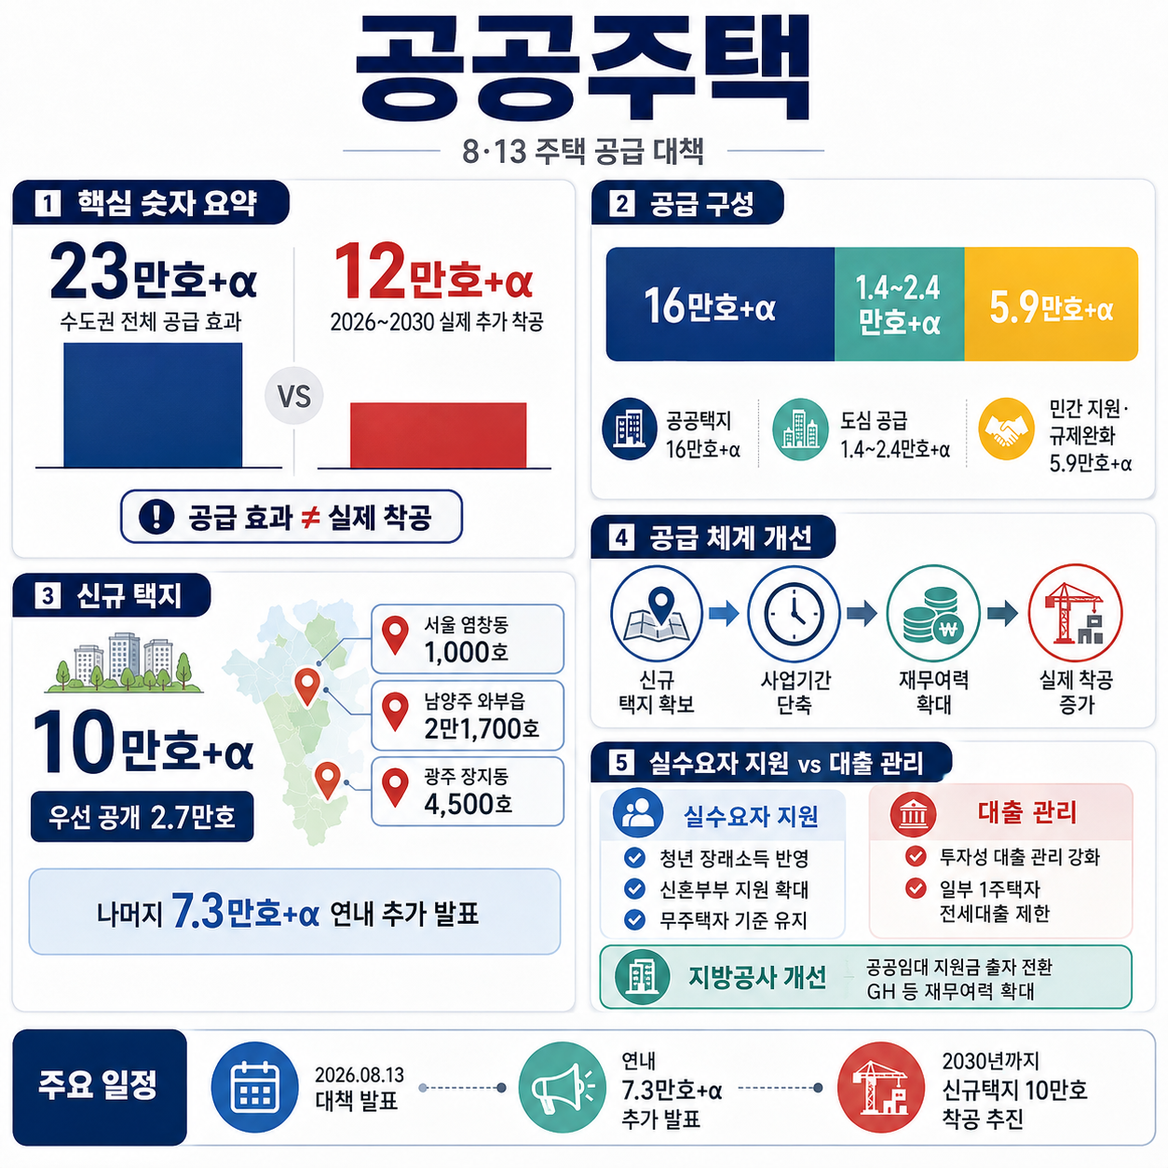
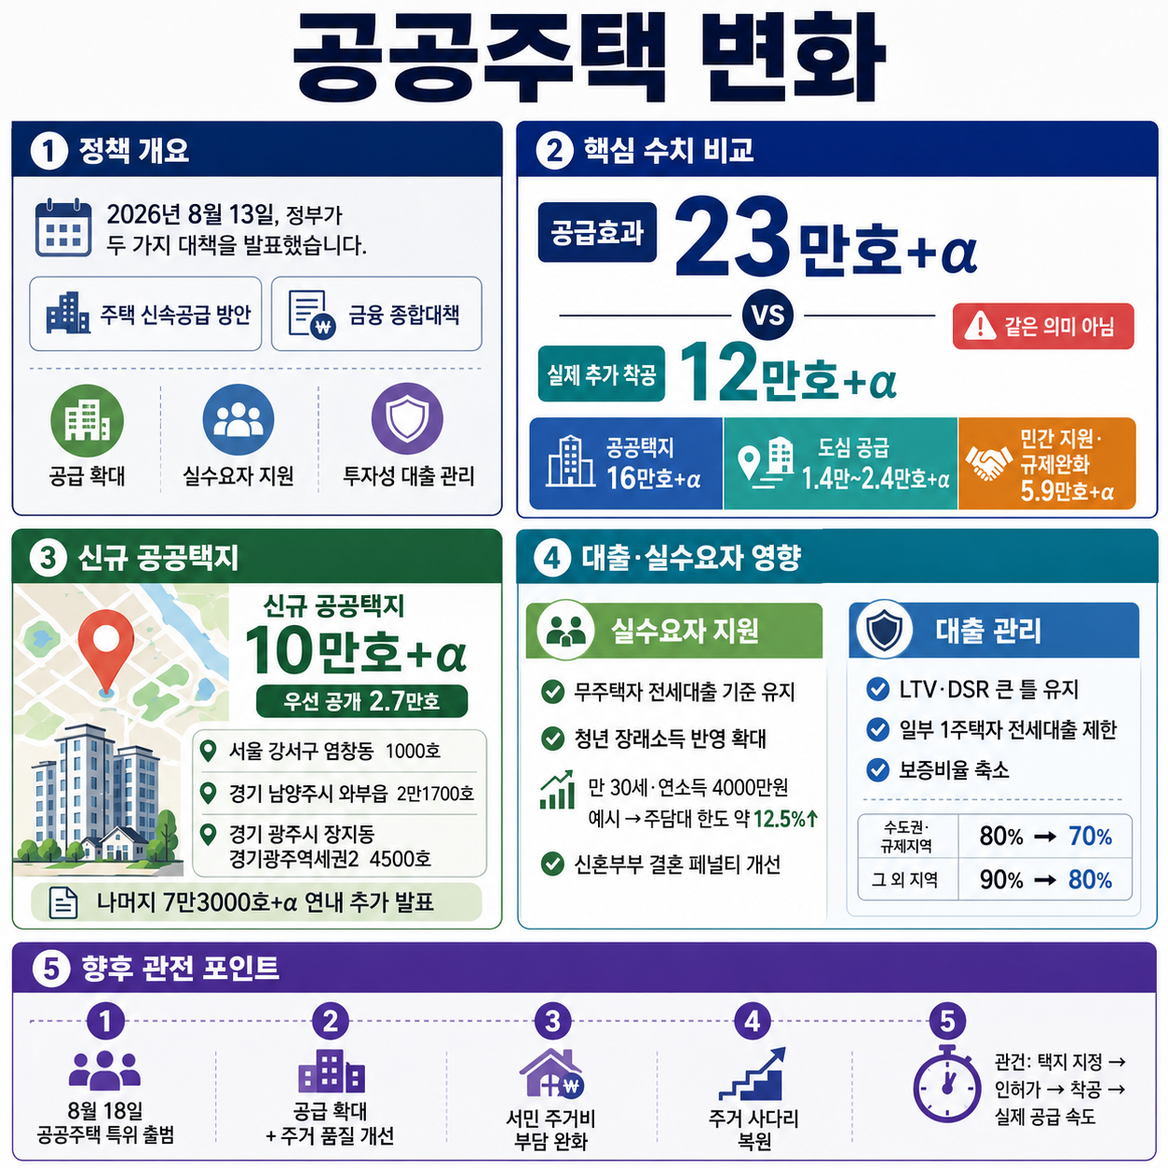
post: auto-generated for tax-yearend

diff --git a/sites/tax-yearend/content/posts/2026-08-27-공공주택-핵심-내용과-영향-정리.md b/sites/tax-yearend/content/posts/2026-08-27-공공주택-핵심-내용과-영향-정리.md
@@ -1,0 +1,235 @@
+---
+title: "공공주택 핵심 내용과 영향 정리"
+date: 2026-08-27
+description: "정책·뉴스의 배경과 맥락 정부가 2026년 8월 13일 발표한 ‘전월세 및 매매시장 안정을 위한 주택 신속공급 방안’ 과 ‘부동산 시장 안정을 위한 금융 종합대책’ 은 수도권 주택 공급을 늘리면서 실수요자의 주거 부담을 낮추고, 투자 성격이 강한 대출은 관리하는 데 초점을 맞춘 정책입니다. 국토교통부와 금융위원회가 함께 "
+categories: ["정책·뉴스"]
+tags: ["공공주택", "정책·뉴스"]
+author: "오늘의 트렌드"
+image: "/images/공공주택-핵심-내용과-영향-정리.png"
+---
+
+## 정책·뉴스의 배경과 맥락
+
+정부가 2026년 8월 13일 발표한 **‘전월세 및 매매시장 안정을 위한 주택 신속공급 방안’**과 **‘부동산 시장 안정을 위한 금융 종합대책’**은 수도권 주택 공급을 늘리면서 실수요자의 주거 부담을 낮추고, 투자 성격이 강한 대출은 관리하는 데 초점을 맞춘 정책입니다. 국토교통부와 금융위원회가 함께 발표한 이번 대책은 공공택지 공급뿐 아니라 정비사업 절차 개선, 건설·사업자금 지원, 가계대출 관리, 청년·신혼부부 지원 등을 함께 다루고 있다는 점이 특징입니다.
+
+정책에서 가장 눈에 띄는 숫자는 **수도권 23만호+α 공급 효과**입니다. 다만 이 수치는 2030년까지 23만호 이상의 주택이 모두 완공된다는 의미는 아닙니다. 제공된 자료에 따르면 정부가 이번 대책으로 예상하는 전체 공급 효과가 23만호+α이며, 이 가운데 **2026년부터 2030년까지 실제 추가 착공 물량은 12만호+α**로 제시됐습니다. 즉 정책 발표에서 언급되는 ‘공급 효과’, 실제 사업 착수에 해당하는 ‘착공’, 입주할 수 있는 ‘완공’을 구분해서 볼 필요가 있습니다.
+
+정부는 공급 확대의 핵심 수단으로 공공택지를 활용할 계획입니다. 전체 공급 효과 가운데 **공공택지에서 16만호+α**, 도심 공급에서 **1만4000~2만4000호+α**, 민간 금융·세제 지원 및 규제 완화를 통해 **5만9000호+α**의 효과를 내겠다는 구상입니다. 특히 신규 공공택지 공급 계획은 **10만호+α** 규모로 제시됐으며, 그중 2만7000호의 입지가 먼저 공개됐습니다.
+
+구체적으로는 서울 강서구 염창동 1000호, 경기 남양주시 와부읍 2만1700호, 경기 광주시 장지동 경기광주역세권2 4500호가 우선 공개 대상에 포함됐습니다. 나머지 **7만3000호+α 규모의 신규 공공택지 후보지는 연내 추가 발표할 예정**이라고 제시됐습니다. 따라서 향후 공공주택 정책을 볼 때는 이미 공개된 지역뿐 아니라 추가 후보지가 어디에 지정되는지도 중요한 변수가 될 전망입니다.
+
+공공주택을 둘러싼 논의는 단순히 공급 물량을 늘리는 데서 끝나지 않습니다. 2026년 8월 18일에는 대통령 직속 국민통합위원회가 **‘주거안정을 위한 공공주택 특별위원회’**를 출범시켰습니다. 특별위원회는 공공주택 공급 확대뿐 아니라 **주거 품질 개선, 서민 주거비 부담 완화, 주거 사다리 복원**과 관련된 정책과제를 발굴하는 역할을 맡게 됩니다. 공급량뿐 아니라 실제 거주 품질과 주거 이동 가능성을 함께 살펴보려는 흐름으로 볼 수 있습니다.
+
+또한 제공된 자료에서는 정부와 정치권이 공급 계획의 발표 자체보다 **정책을 국민이 체감할 수 있는 속도로 집행하는 것이 중요하다**고 강조한 내용도 확인됩니다. 즉 이번 공공주택 정책의 성패는 발표된 물량의 규모뿐 아니라 택지 지정, 인허가, 착공, 실제 공급까지 얼마나 차질 없이 이어지는지에 달려 있다고 볼 수 있습니다.
+
+## 주요 내용 정리 - 핵심 포인트 5가지
+
+### 1. 수도권 23만호+α 공급 효과 추진
+
+정부는 이번 대책을 통해 수도권에서 총 **23만호+α 규모의 공급 효과**를 내겠다는 계획을 제시했습니다.
+
+| 구분                  |    정부가 제시한 공급 효과 |
+| ------------------- | ---------------: |
+| 공공택지                |           16만호+α |
+| 도심 공급               | 1만4000~2만4000호+α |
+| 민간 금융·세제 지원 및 규제 완화 |        5만9000호+α |
+| 전체 공급 효과            |           23만호+α |
+| 2026~2030년 실제 추가 착공 |           12만호+α |
+
+중요한 점은 23만호+α가 모두 2030년까지 완공되는 물량은 아니라는 것입니다. 실제 추가 착공 목표와 전체적인 공급 효과는 다른 개념이므로 정책을 해석할 때 구분해야 합니다.
+
+### 2. 신규 공공택지 10만호+α 확보
+
+신규 공공택지는 **10만호+α** 규모로 계획됐습니다. 이 가운데 먼저 공개된 물량은 2만7000호입니다.
+
+| 지역                  |     계획 물량 |
+| ------------------- | --------: |
+| 서울 강서구 염창동          |     1000호 |
+| 경기 남양주시 와부읍         |   2만1700호 |
+| 경기 광주시 장지동 경기광주역세권2 |     4500호 |
+| 우선 공개 합계            |   2만7000호 |
+| 향후 추가 발표            | 7만3000호+α |
+
+추가 공공택지 후보지는 연내 발표 예정으로 제시됐습니다.
+
+### 3. 재개발·재건축 등 정비사업 절차 완화
+
+정부는 신규 택지만 조성하는 것이 아니라 기존 도심의 재개발·재건축 속도를 높이는 방안도 포함했습니다.
+
+재개발 조합 설립 동의율은 기존 **75%에서 70%**로 낮아지고, 공공 재개발·재건축의 사업시행자 지정 동의율도 **67%에서 60%**로 완화됩니다.
+
+또 시공사 입찰에 한 곳만 참여하는 경우 재입찰 절차를 간소화하고, 공사비와 인허가 등을 둘러싼 분쟁을 신속하게 조정하기 위한 전문 중재기구 신설도 검토합니다.
+
+정비사업에서 조합 설립과 사업시행자 지정에 필요한 동의 기준이 낮아질 경우 사업 초기 단계에서 발생하는 지연을 줄일 가능성이 있습니다. 반면 사업 추진 과정에서 주민 간 이해관계를 충분히 조정하는 절차 역시 중요해질 수 있습니다.
+
+### 4. 투자 성격 대출 관리와 실수요자 지원 병행
+
+정부는 전체적인 LTV(주택담보인정비율)와 DSR(총부채원리금상환비율) 규제의 큰 틀은 유지하면서 투자 성격이 강하다고 판단되는 대출 관리를 강화합니다.
+
+수도권·규제지역 아파트를 보유하면서 해당 주택을 임대하고 본인과 배우자가 한 번도 실거주하지 않은 1주택자는 **내년부터 전세대출 신규 취급과 만기 연장이 원칙적으로 제한**될 예정입니다.
+
+또한 1주택자의 전세대출 보증비율은 수도권·규제지역의 경우 **80%에서 70%**, 그 외 지역에서는 **90%에서 80%**로 낮아집니다. 반면 무주택자에게는 현행 기준이 유지됩니다.
+
+실거주 목적의 재건축·재개발 이주비와 신축 아파트 중도금·잔금대출은 금융회사의 가계대출 총량관리 목표와 별도로 관리합니다.
+
+### 5. 청년·신혼부부 등 실수요자 지원 확대
+
+청년 차주에게는 현재 소득만이 아니라 향후 소득 증가 가능성을 반영하는 **장래소득 적용**을 보다 적극적으로 활용하도록 했습니다.
+
+금융회사는 청년 차주에게 장래소득 적용 가능 여부와 적용할 경우 받을 수 있는 대출 한도를 의무적으로 안내해야 합니다.
+
+정부가 제시한 예시에서는 **연소득 4000만원인 만 30세 차주**가 장래소득을 반영할 경우 30년 만기 주택담보대출 한도가 약 **12.5% 증가할 수 있는 것**으로 설명됐습니다.
+
+혼인신고 이후 정책대출이나 공공주택 이용 과정에서 불리해진다는 이른바 **‘결혼 페널티’**를 개선하는 방향도 포함됐습니다. 제공된 자료에서는 보금자리론·디딤돌·버팀목대출 신청 과정에서 부부의 소득기준을 적용하는 방식이 개선되는 내용이 소개됐습니다.
+
+## 정책 흐름을 한눈에 보는 타임라인
+
+| 시점           | 주요 내용                                       |
+| ------------ | ------------------------------------------- |
+| 2026년 8월 12일 | 주택시장 안정화와 공급 확대 필요성, 정책 집행 속도 등에 관한 논의      |
+| 2026년 8월 13일 | ‘전월세 및 매매시장 안정을 위한 주택 신속공급 방안’ 및 금융 종합대책 발표 |
+| 2026년 8월 17일 | 대책의 공공택지·정비사업·대출·실수요자 지원 내용 등이 구체적으로 소개     |
+| 2026년 8월 18일 | 국민통합위원회 ‘주거안정을 위한 공공주택 특별위원회’ 출범            |
+| 연내           | 나머지 신규 공공택지 7만3000호+α 후보지 추가 발표 예정          |
+| 2026~2030년   | 대책에 따른 실제 추가 착공 12만호+α 추진                   |
+
+## 국민에게 미치는 영향
+
+### 긍정적으로 볼 수 있는 측면
+
+첫째, 수도권 주택 공급 기반이 확대될 가능성이 있습니다. 신규 공공택지 10만호+α와 기존 공공택지를 포함한 16만호+α 규모의 공급 효과가 계획대로 이어진다면 중장기적으로 수도권 주택 공급 부족에 대응할 수 있는 기반이 마련될 수 있습니다.
+
+둘째, 정비사업의 속도가 빨라질 가능성이 있습니다. 조합 설립과 사업시행자 지정 동의율을 낮추고 시공사 선정 절차를 간소화하면 사업 초기 단계에서 발생하던 지연 요인이 일부 줄어들 수 있습니다.
+
+셋째, 청년과 무주택 실수요자에 대한 지원이 상대적으로 강화됩니다. 무주택자의 전세대출 기준은 현행대로 유지하면서 청년에게는 장래소득을 반영할 수 있도록 해 대출 가능 범위를 넓힐 수 있도록 했습니다.
+
+넷째, 신혼부부가 혼인신고 이후 정책대출이나 공공주택 제도에서 불리해지는 문제를 완화하려는 방향이 제시됐다는 점도 실수요자에게는 의미가 있습니다.
+
+다섯째, 국민통합위원회 공공주택 특별위원회가 공급량뿐 아니라 주거 품질과 주거비 부담, 주거 사다리 문제까지 함께 검토한다는 점에서 공공주택 정책의 논의 범위가 넓어질 가능성이 있습니다.
+
+### 우려하거나 지켜봐야 할 측면
+
+첫째, 공급 효과와 실제 입주 가능 시점 사이에는 차이가 있습니다. 정부가 제시한 23만호+α는 전체 공급 효과이며 2026~2030년 실제 추가 착공 물량은 12만호+α입니다. 따라서 공급 발표 직후 시장에서 체감할 수 있는 주택 물량이 단기간에 크게 증가한다고 단정하기는 어렵습니다.
+
+둘째, 신규 공공택지가 지정되더라도 실제 주택 공급까지는 택지 조성, 인허가, 착공 등의 과정을 거쳐야 합니다. 정책에서 강조한 ‘속도’가 실제 사업 단계에서 구현되는지가 중요합니다.
+
+셋째, 정비사업 동의율 완화는 사업 진행 속도를 높일 수 있지만, 사업에 동의하지 않는 주민과 조합 사이의 이해관계 조정 문제는 계속 발생할 수 있습니다. 정부가 공사비·인허가 분쟁을 처리하기 위한 전문 중재기구 신설을 검토하는 것도 이런 문제와 관련된 것으로 볼 수 있습니다.
+
+넷째, 일부 1주택자의 전세대출 제한과 보증비율 축소는 가계대출 관리 측면에서는 의미가 있지만 해당 조건에 해당하는 차주에게는 자금 조달 부담이 커질 수 있습니다.
+
+다섯째, 향후 공개될 7만3000호+α 규모의 신규 공공택지가 어느 지역에 배치되는지에 따라 수도권 지역별 체감 효과가 달라질 수 있습니다.
+
+
+<figure class="post-mid-image">
+  <img src="/images/공공주택-핵심-내용과-영향-정리-mid.png" alt="공공주택 핵심 내용과 영향 정리 인포그래픽" loading="lazy">
+</figure>
+
+## 전문가 의견 및 분석
+
+제공된 자료에는 개별 부동산 전문가의 구체적인 평가나 전망이 별도로 제시돼 있지 않습니다. 따라서 특정 전문가의 의견을 임의로 만들어 해석하기보다는, 자료에 나타난 정책 방향과 논점을 중심으로 살펴볼 필요가 있습니다.
+
+이번 대책의 가장 큰 특징은 **‘공급 확대’와 ‘대출 관리’를 동시에 추진한다는 점**입니다. 건설·사업자금 지원과 공공택지 공급, 정비사업 규제 완화 등을 통해 주택 공급 측면에서는 정책 지원을 확대하면서, 가계대출에서는 기존 관리 기조를 유지하고 일부 투자 성격 대출을 더욱 제한하고 있습니다.
+
+정책 구조만 놓고 보면 주택시장 불안에 대응하기 위해 모든 대출을 일괄적으로 확대하거나 축소하는 방식보다는 **실거주와 투자 목적을 구분하려는 접근**으로 볼 수 있습니다. 무주택자 전세대출 기준은 유지하고 청년 장래소득 반영을 확대하는 반면, 일정 조건에 해당하는 1주택자의 전세대출은 제한하는 방식이 대표적인 사례입니다.
+
+공급 정책에서는 무엇보다 실제 집행 속도가 중요합니다. 정부가 제시한 공급 효과가 실제 주거시장에 영향을 미치기 위해서는 택지 발표에서 끝나는 것이 아니라 사업 추진과 착공으로 연결돼야 합니다. 제공된 자료에서도 정책 발표 이후 국민이 체감할 수 있도록 신속한 집행이 중요하다는 취지의 언급이 나타납니다.
+
+또한 공공주택 정책의 평가 기준도 단순히 ‘몇 호를 공급하는가’에서 더 넓어질 가능성이 있습니다. 국민통합위원회가 공공주택 특별위원회를 출범시키면서 공급 확대와 함께 **주거 품질 개선, 주거비 부담 완화, 주거 사다리 복원**을 정책과제로 다루겠다고 밝힌 점이 이를 보여줍니다.
+
+## 향후 전망과 일정
+
+향후 가장 먼저 확인해야 할 사안은 **신규 공공택지 추가 발표**입니다. 정부는 신규 공공택지 10만호+α 가운데 2만7000호의 입지를 우선 공개했으며 나머지 7만3000호+α는 연내 발표할 계획입니다.
+
+공공택지 발표 이후에는 실제 사업이 어느 정도 속도로 진행되는지 확인해야 합니다. 2026년부터 2030년까지 정부가 제시한 실제 추가 착공 목표는 12만호+α입니다. 따라서 향후에는 공급 효과 수치보다 실제 착공 실적을 함께 살펴보는 것이 중요합니다.
+
+정비사업과 관련해서는 조합 설립 동의율 완화, 사업시행자 지정 기준 완화, 시공사 입찰 절차 간소화 등이 실제 사업기간 단축으로 이어지는지가 관건입니다.
+
+금융 분야에서는 일부 1주택자의 전세대출 제한이 **내년부터 적용될 예정**이므로 적용 대상에 해당하는 가구는 본인의 주택 보유 및 실거주 조건을 확인할 필요가 있습니다.
+
+공공주택 정책 전반에서는 8월 18일 출범한 공공주택 특별위원회가 앞으로 어떤 구체적인 정책과제를 제시하는지도 지켜볼 부분입니다.
+
+## 관련 정책 비교
+
+| 정책 분야                   | 기존 또는 일반적 기준        | 이번 대책의 변화              | 주요 대상·의미         |
+| ----------------------- | ------------------- | ---------------------- | ---------------- |
+| 신규 공공택지                 | -                   | 10만호+α 추진              | 수도권 공급 확대        |
+| 재개발 조합설립 동의율            | 75%                 | 70%                    | 정비사업 절차 완화       |
+| 공공 재개발·재건축 사업시행자 지정 동의율 | 67%                 | 60%                    | 사업 추진 속도 개선      |
+| 수도권·규제지역 1주택자 전세대출 보증비율 | 80%                 | 70%                    | 일부 1주택자 대출 관리 강화 |
+| 기타 지역 1주택자 전세대출 보증비율    | 90%                 | 80%                    | 일부 1주택자 대출 관리 강화 |
+| 무주택자 전세대출               | 현행 기준               | 현행 기준 유지               | 실수요자 보호          |
+| 청년 대출 심사                | 현재 소득 중심            | 장래소득 적극 반영             | 청년 대출 한도 지원      |
+| 재건축·재개발 이주비 등           | 가계대출 총량관리 대상과 함께 관리 | 별도 관리                  | 실거주·사업 추진 지원     |
+| 공공주택 정책 논의              | 공급 중심 논의            | 공급·품질·주거비·주거 사다리 함께 검토 | 정책 범위 확대         |
+
+## 시민이 알아야 할 점 5가지
+
+### 1. ‘23만호+α’가 모두 5년 안에 완공되는 것은 아닙니다
+
+정부가 제시한 23만호+α는 이번 대책으로 기대하는 전체적인 공급 효과입니다. 2026~2030년 실제 추가 착공 목표는 12만호+α이므로 두 수치를 혼동하지 않는 것이 중요합니다.
+
+### 2. 신규 공공택지 발표는 아직 끝나지 않았습니다
+
+현재 공개된 신규 공공택지는 2만7000호 규모이며 전체 계획은 10만호+α입니다. 나머지 7만3000호+α의 후보지는 연내 추가 발표될 예정입니다.
+
+### 3. 무주택자와 일부 1주택자의 대출 기준이 다릅니다
+
+무주택자의 전세대출 기준은 현행대로 유지됩니다. 반면 일정 조건에 해당하는 1주택자는 전세대출 신규 취급이나 만기 연장이 제한될 수 있고 보증비율도 낮아집니다.
+
+따라서 단순히 ‘전세대출 규제가 강화됐다’고 보기보다는 본인의 주택 보유 여부와 실거주 여부를 함께 확인해야 합니다.
+
+### 4. 청년이라면 장래소득 반영 여부를 확인할 필요가 있습니다
+
+금융회사는 청년 차주에게 장래소득 적용 가능 여부와 적용 시 대출 가능 한도를 안내해야 합니다. 현재 소득만으로 대출 한도를 판단하기보다 장래소득 적용 대상인지 확인해볼 필요가 있습니다.
+
+### 5. 공급량과 함께 실제 착공 여부를 살펴봐야 합니다
+
+주택 정책에서 발표 물량과 실제 공급은 동일하지 않습니다. 신규 택지 지정 이후 사업 추진, 인허가, 착공 등의 과정이 이어져야 하기 때문에 앞으로 발표되는 실제 착공 실적을 함께 확인하는 것이 중요합니다.
+
+## 자주 묻는 질문(FAQ)
+
+**Q: 정부가 발표한 수도권 23만호+α는 2030년까지 모두 입주할 수 있다는 뜻인가요?**
+
+A: 아닙니다. 23만호+α는 이번 정책을 통해 정부가 예상한 전체적인 공급 효과입니다. 제공된 자료에 따르면 2026년부터 2030년까지 실제 추가 착공 물량은 12만호+α입니다. 따라서 23만호 전체가 2030년까지 완공되거나 입주한다는 의미로 해석해서는 안 됩니다.
+
+**Q: 신규 공공택지는 어디에 들어서나요?**
+
+A: 신규 공공택지는 총 10만호+α 규모로 추진되며 현재 2만7000호의 입지가 우선 공개됐습니다. 서울 강서구 염창동 1000호, 경기 남양주시 와부읍 2만1700호, 경기 광주시 장지동 경기광주역세권2 4500호입니다. 나머지 7만3000호+α의 후보지는 연내 추가 발표될 예정입니다.
+
+**Q: 이번 대책으로 무주택자의 전세대출도 줄어드나요?**
+
+A: 제공된 자료에 따르면 무주택자의 전세대출 기준은 현행대로 유지됩니다. 전세대출 보증비율 축소와 일부 전세대출 제한은 일정 조건에 해당하는 1주택자를 중심으로 적용됩니다.
+
+**Q: 청년은 주택담보대출을 더 받을 수 있게 되는 건가요?**
+
+A: 청년 차주에게 장래소득을 적극적으로 반영하도록 하는 제도가 강화됩니다. 금융회사는 청년에게 장래소득 적용 가능 여부와 적용 시 대출 한도를 안내해야 합니다. 정부 예시에서는 연소득 4000만원인 만 30세 차주가 장래소득을 반영할 경우 30년 만기 주택담보대출 한도가 약 12.5% 증가할 수 있는 것으로 제시됐습니다. 다만 실제 적용 여부와 한도는 개인별 조건에 따라 달라질 수 있으므로 금융회사 확인이 필요합니다.
+
+**Q: 공공주택 정책은 앞으로 공급량만 늘리는 방향으로 추진되나요?**
+
+A: 공급 확대가 핵심 과제이지만 공급량만을 다루는 것은 아닙니다. 2026년 8월 18일 출범한 국민통합위원회의 ‘주거안정을 위한 공공주택 특별위원회’는 공공주택 공급 확대와 함께 주거 품질 개선, 서민 주거비 부담 완화, 주거 사다리 복원 등의 정책과제를 발굴할 계획입니다.
+
+## 정리
+
+이번 공공주택 정책의 핵심은 **수도권 공급 확대, 정비사업 속도 개선, 투자 성격 대출 관리, 청년·무주택·신혼부부 등 실수요자 지원**을 동시에 추진하는 데 있습니다.
+
+수도권 23만호+α라는 공급 효과가 가장 크게 주목받고 있지만 실제 정책 효과를 판단하기 위해서는 숫자 자체보다 그 안의 구조를 살펴봐야 합니다. 공공택지와 도심 공급, 민간 지원을 통해 기대하는 전체 공급 효과와 2026~2030년 실제 추가 착공 목표는 서로 다른 수치입니다.
+
+또한 공공주택 정책은 단순한 신규 주택 건설 정책을 넘어 정비사업 절차, 금융 규제, 청년 대출, 신혼부부 지원, 주거 품질과 주거비 부담 문제까지 함께 다루는 방향으로 확대되고 있습니다.
+
+향후에는 연내 추가 발표될 **7만3000호+α 규모의 신규 공공택지 위치**, 2026~2030년 실제 착공 실적, 정비사업 제도 개선의 효과, 일부 전세대출 규제의 시행 과정, 공공주택 특별위원회가 마련할 정책과제 등을 차례로 확인할 필요가 있습니다.
+
+결국 이번 대책이 실제 주거 안정으로 이어지는지는 계획된 공급 물량이 얼마나 빠르고 안정적으로 사업화되는지, 그리고 공급 확대와 금융 관리 사이에서 실수요자의 주거 접근성을 얼마나 유지할 수 있는지가 중요한 판단 기준이 될 것으로 보입니다.
+
+## 출처
+
+* https://news.tf.co.kr/read/economy/2354486.htm
+* https://www.joseilbo.com/news/htmls/2026/08/20260812573730.html
+* https://www.joseilbo.com/news/htmls/2026/08/20260813573778.html
+* https://www.sisaon.co.kr/news/articleView.html?idxno=203605
+
+---
+
+<figure class="post-comic">
+  <figcaption>오늘의 시사 4컷</figcaption>
+  <img src="/images/공공주택-핵심-내용과-영향-정리-comic.png" alt="공공주택 핵심 내용과 영향 정리 4컷만화" loading="lazy">
+</figure>
